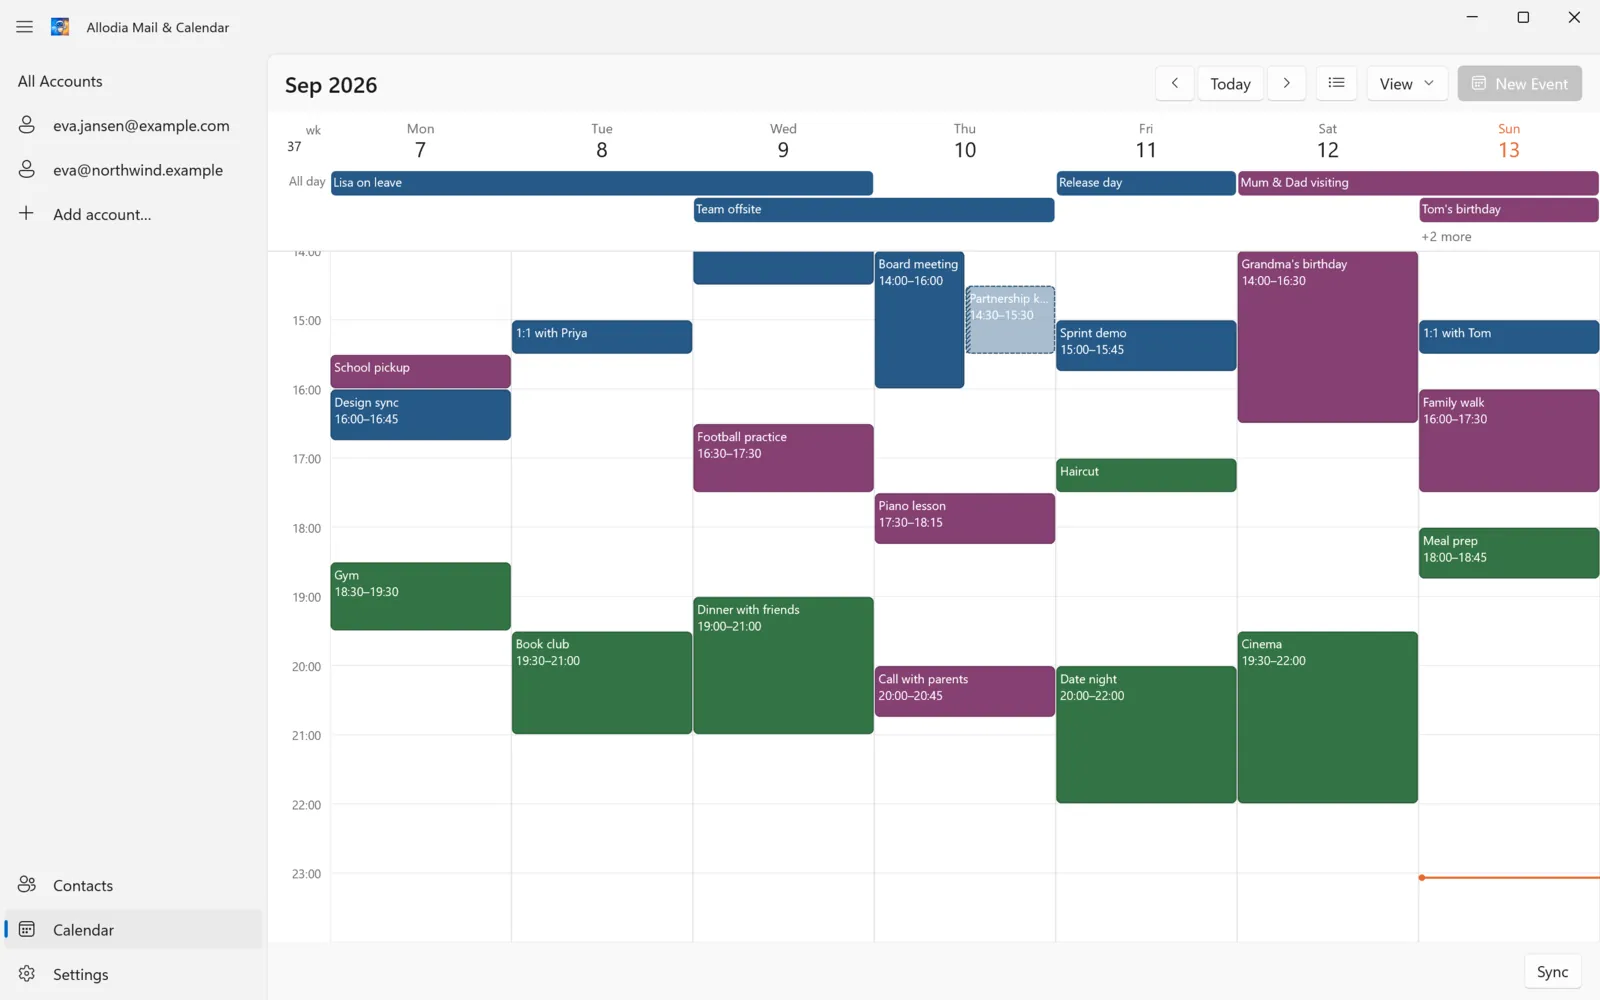
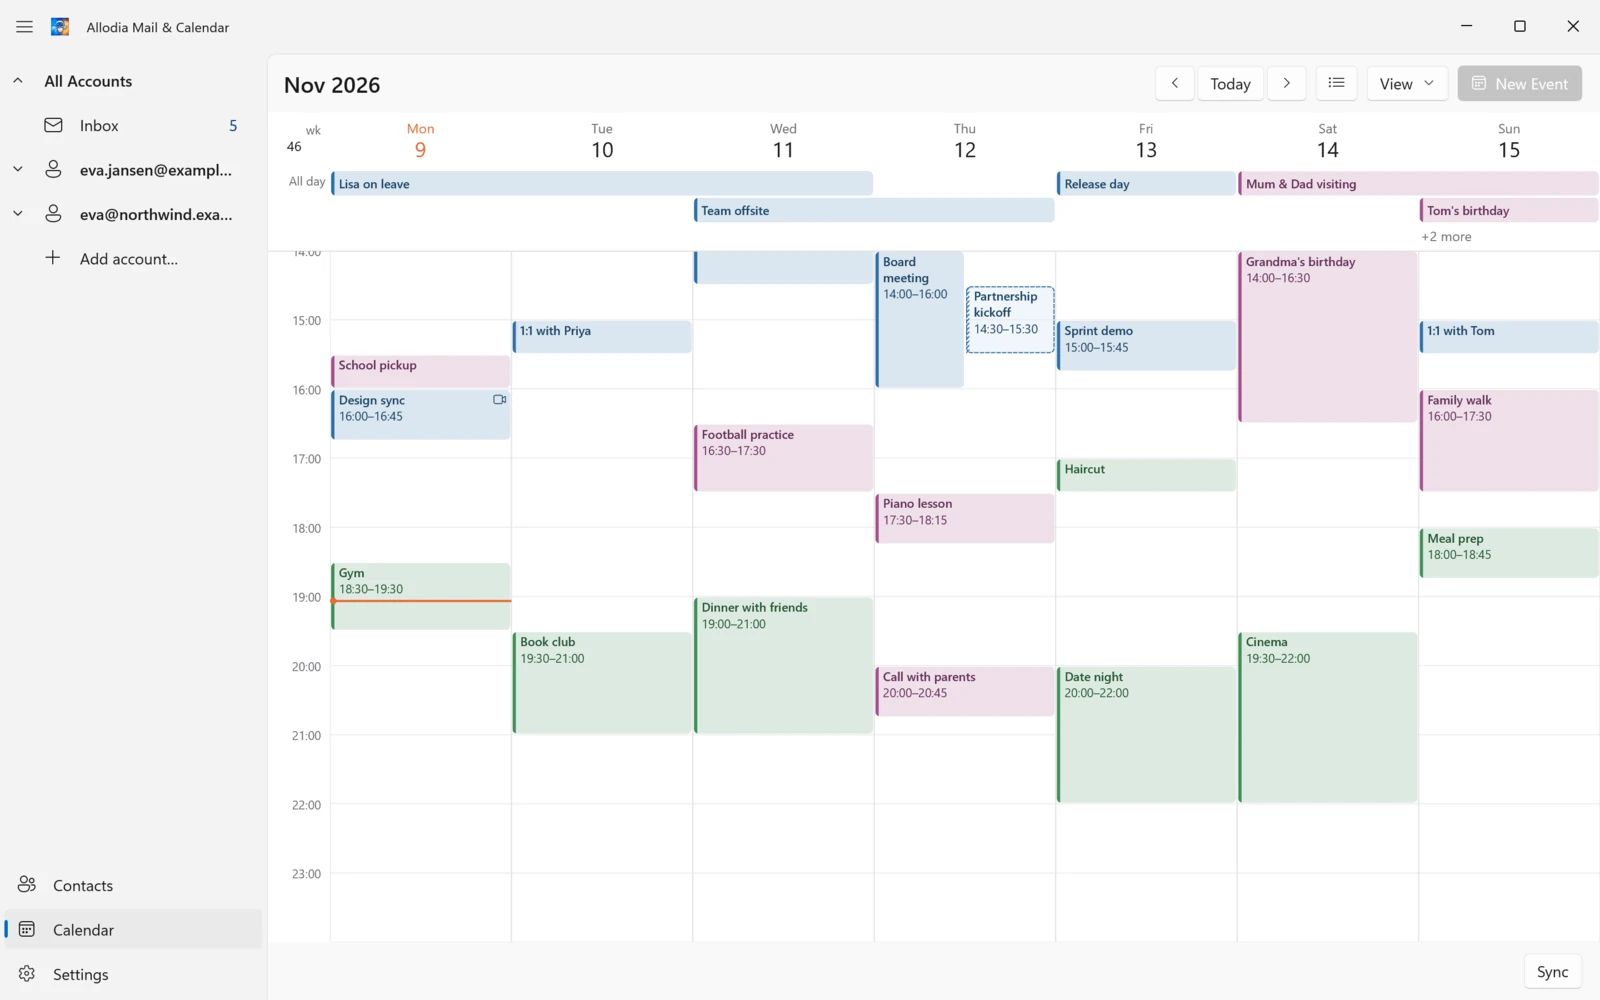
Refresh the Windows screenshots
The README's four Windows images (the inbox, an invitation, the calendar and the dark
appearance) are retaken from a full showcase capture at 1dbfde5b: every locale and every
screen, signatures included, 63 PNGs at 2880x1800. They show the current client: one command
bar across the mail window, the theme toggle in the dark reading pane and the lighter calendar
colours. Each is scaled to 1600x1000, lossy WebP at quality 90, with ImageMagick.

docs/store-screenshots.md no longer says Windows is at the old two-locale set, and its links to
other files resolve inside the repository again.

diff --git a/docs/store-screenshots.md b/docs/store-screenshots.md
@@ -29,21 +29,21 @@ same guarantee.
 
 - **Platforms:** `macos`, `iphone`, `ipad`, `android`, `windows`.
 - **Locales:** `en`, `nl`, `de`, `fr`, `es`, `it`, `pt`: exactly the app's localisation catalog
-  ([`project.inlang/settings.json`](../../project.inlang/settings.json)); each store listing
+  ([`project.inlang/settings.json`](../project.inlang/settings.json)); each store listing
   language needs its own screenshots.
 - **Screens (8):** `list`, `list-dark`, `reply`, `settings`, `add-account`, `calendar`,
   `invitation`, `meeting`. The order they appear in a store gallery is a separate decision, and
   one that is written down: `SCREEN_ORDER` in
-  [`scripts/dev/store_payload.py`](../../scripts/dev/store_payload.py), which every publisher
+  [`scripts/dev/store_payload.py`](../scripts/dev/store_payload.py), which every publisher
   applies (alphabetical would open every listing on `add-account`).
 
 **`invitation`** is the one screen that shows mail and calendar working as one product: a meeting
 request open in the reading view, with Accept / Maybe / Decline over a preview of the day it would
-land on ([`docs/invitations.md`](../../docs/invitations.md)).
+land on ([`docs/invitations.md`](invitations.md)).
 
 **`meeting`** is the calendar's half of that story: the showcase's design sync open in the event
 detail over the week, with Join, the meeting ID and the number to dial in on
-([`docs/conferencing.md`](../../docs/conferencing.md)). Every client opens the event the core
+([`docs/conferencing.md`](conferencing.md)). Every client opens the event the core
 names (`showcase_meeting`), so no seed can leave one of them photographing an empty detail.
 
 **`list-dark` is not a screen of its own: it is `list` again, in the other appearance.** Every
@@ -67,9 +67,6 @@ repository; the number is here because it decides what to capture.
 On the three-pane clients the dark capture includes the reading pane, and the message in it is
 drawn dark like the rest of the frame ([`reading-dark-mode.md`](reading-dark-mode.md)). A
 `list-dark` frame with a white panel in it predates that, and is re-captured rather than edited.
-
-Windows is the one platform still at the old set (`en`/`nl`, five screens): it builds only on a
-Windows host, so it is re-captured there rather than in the same pass as the other four.
 
 **Android is one flat directory, and the form factor is in the file name:**
 `android/<form-factor>-<locale>-<screen>.png`: e.g. `android/tablet-10-nl-list.png`. Google Play
@@ -152,7 +149,7 @@ picker needs: no rename step.
 macOS / iPhone / iPad run on a Mac; **Android needs an emulator** (SystemUI demo mode, which pins
 the status bar to a clean 09:41, only works on emulators, not a physical phone); **Windows** runs
 on a Windows host. The tablet targets boot their AVD if it isn't already running and shut it down
-again afterwards, so each is a single command. See [`docs/debugging.md`](../../docs/debugging.md) →
+again afterwards, so each is a single command. See [`docs/debugging.md`](debugging.md) →
 the showcase section.
 
 If the phone screenshots change, **regenerate the feature graphic too**: it is composed from them.
